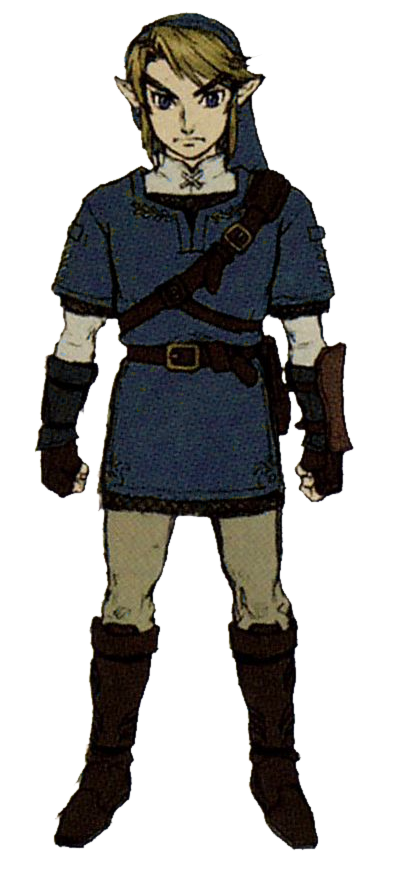
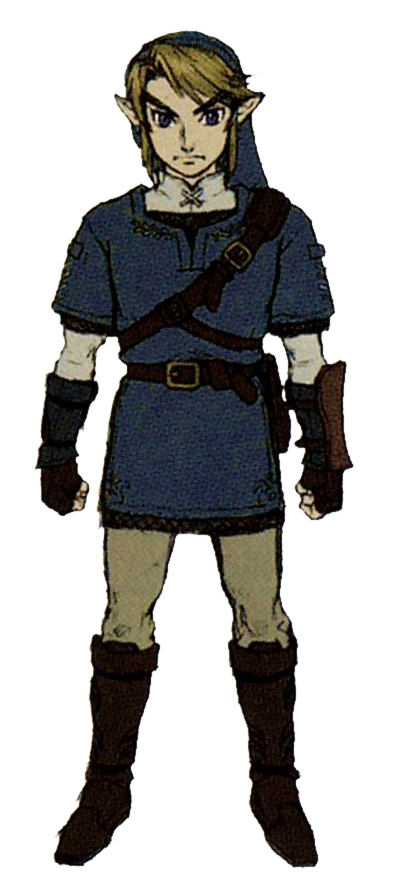
add cat ears

diff --git a/lib/pages/imperative.dart b/lib/pages/imperative.dart
@@ -37,10 +37,11 @@ class _CharacterSceneState extends State<CharacterScene> {
   ColorOption color = ColorOption.green;
   WeaponOption currentWeapon = WeaponOption.sword;
   Offset? normalizedWeaponPosition;
+  bool ears = false;
 
   static const initialCharacterFractionalHeight = 0.5;
-  static const characterAspectRatio = 400 / 872;
-  static const weaponPosWithinCharacter = Offset(312 / 400, 478 / 872);
+  static const characterAspectRatio = 400 / 890;
+  static const weaponPosWithinCharacter = Offset(312 / 400, 496 / 890);
   static const originWithinWeapon = Offset(462 / 774, 227 / 737);
   static const weaponFractionalHeight = 0.2;
 
@@ -78,7 +79,7 @@ class _CharacterSceneState extends State<CharacterScene> {
               controller: Slider(
                   value: characterHeight,
                   min: 0.5,
-                  max: 1.5,
+                  max: 1.75,
                   onChanged: (newValue) {
                     setState(
                       () {
@@ -88,22 +89,34 @@ class _CharacterSceneState extends State<CharacterScene> {
                   }),
             ),
             CharacterControl(
-                name: "Color",
-                controller: DropdownButton(
-                    value: color,
-                    items: [
-                      for (final colorOption in ColorOption.values)
-                        DropdownMenuItem(
-                          value: colorOption,
-                          child: Text(colorOption.name),
-                        )
-                    ],
-                    onChanged: (ColorOption? newValue) {
-                      if (newValue != null) {
-                        setState(() {
-                          color = newValue;
-                        });
-                      }
+              name: "Color",
+              controller: DropdownButton(
+                  value: color,
+                  items: [
+                    for (final colorOption in ColorOption.values)
+                      DropdownMenuItem(
+                        value: colorOption,
+                        child: Text(colorOption.name),
+                      )
+                  ],
+                  onChanged: (ColorOption? newValue) {
+                    if (newValue != null) {
+                      setState(() {
+                        color = newValue;
+                      });
+                    }
+                  }),
+            ),
+            CharacterControl(
+                name: "The Cat Ears",
+                controller: Checkbox(
+                    value: ears,
+                    onChanged: (newValue) {
+                      setState(() {
+                        if (newValue != null) {
+                          ears = newValue;
+                        }
+                      });
                     }))
           ],
         ),
@@ -144,6 +157,19 @@ class _CharacterSceneState extends State<CharacterScene> {
                   Center(
                     child: Image.asset("assets/forest.jpg"),
                   ),
+                  if (ears)
+                    Align(
+                      alignment: Alignment.bottomCenter,
+                      child: FractionallySizedBox(
+                        heightFactor: characterFractionalHeight,
+                        child: Image.asset(
+                          color == ColorOption.blue
+                              ? "assets/blueears.png"
+                              : "assets/ears.png",
+                          filterQuality: FilterQuality.medium,
+                        ),
+                      ),
+                    ),
                   Align(
                     alignment: Alignment.bottomCenter,
                     child: FractionallySizedBox(
